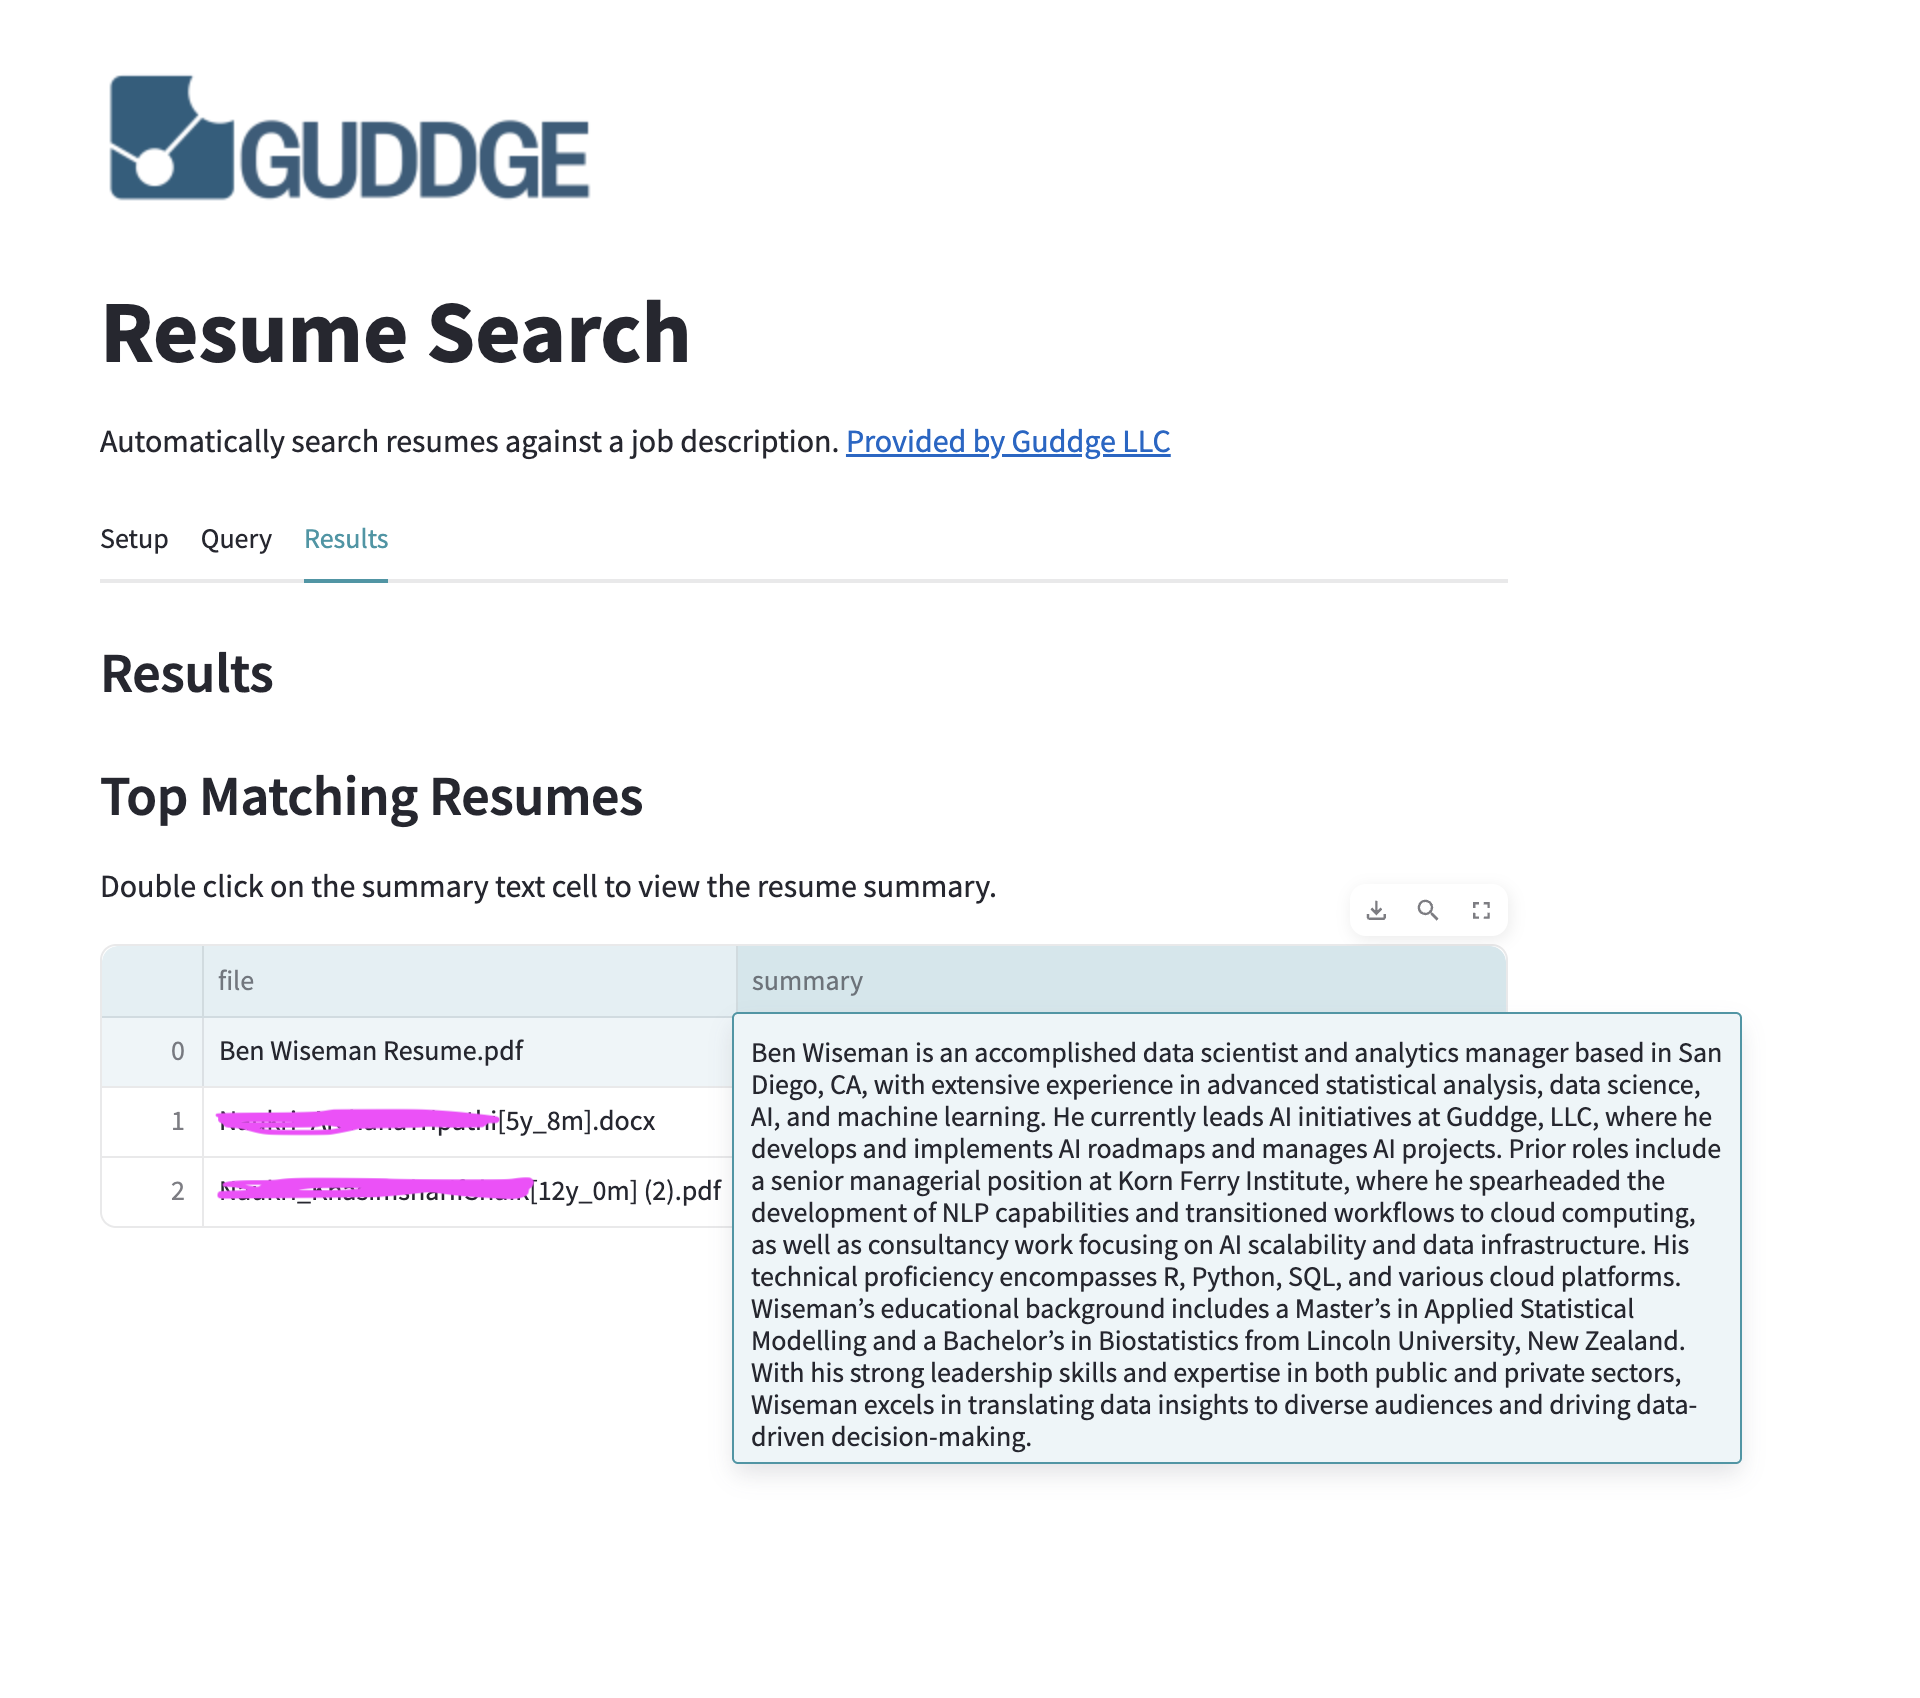
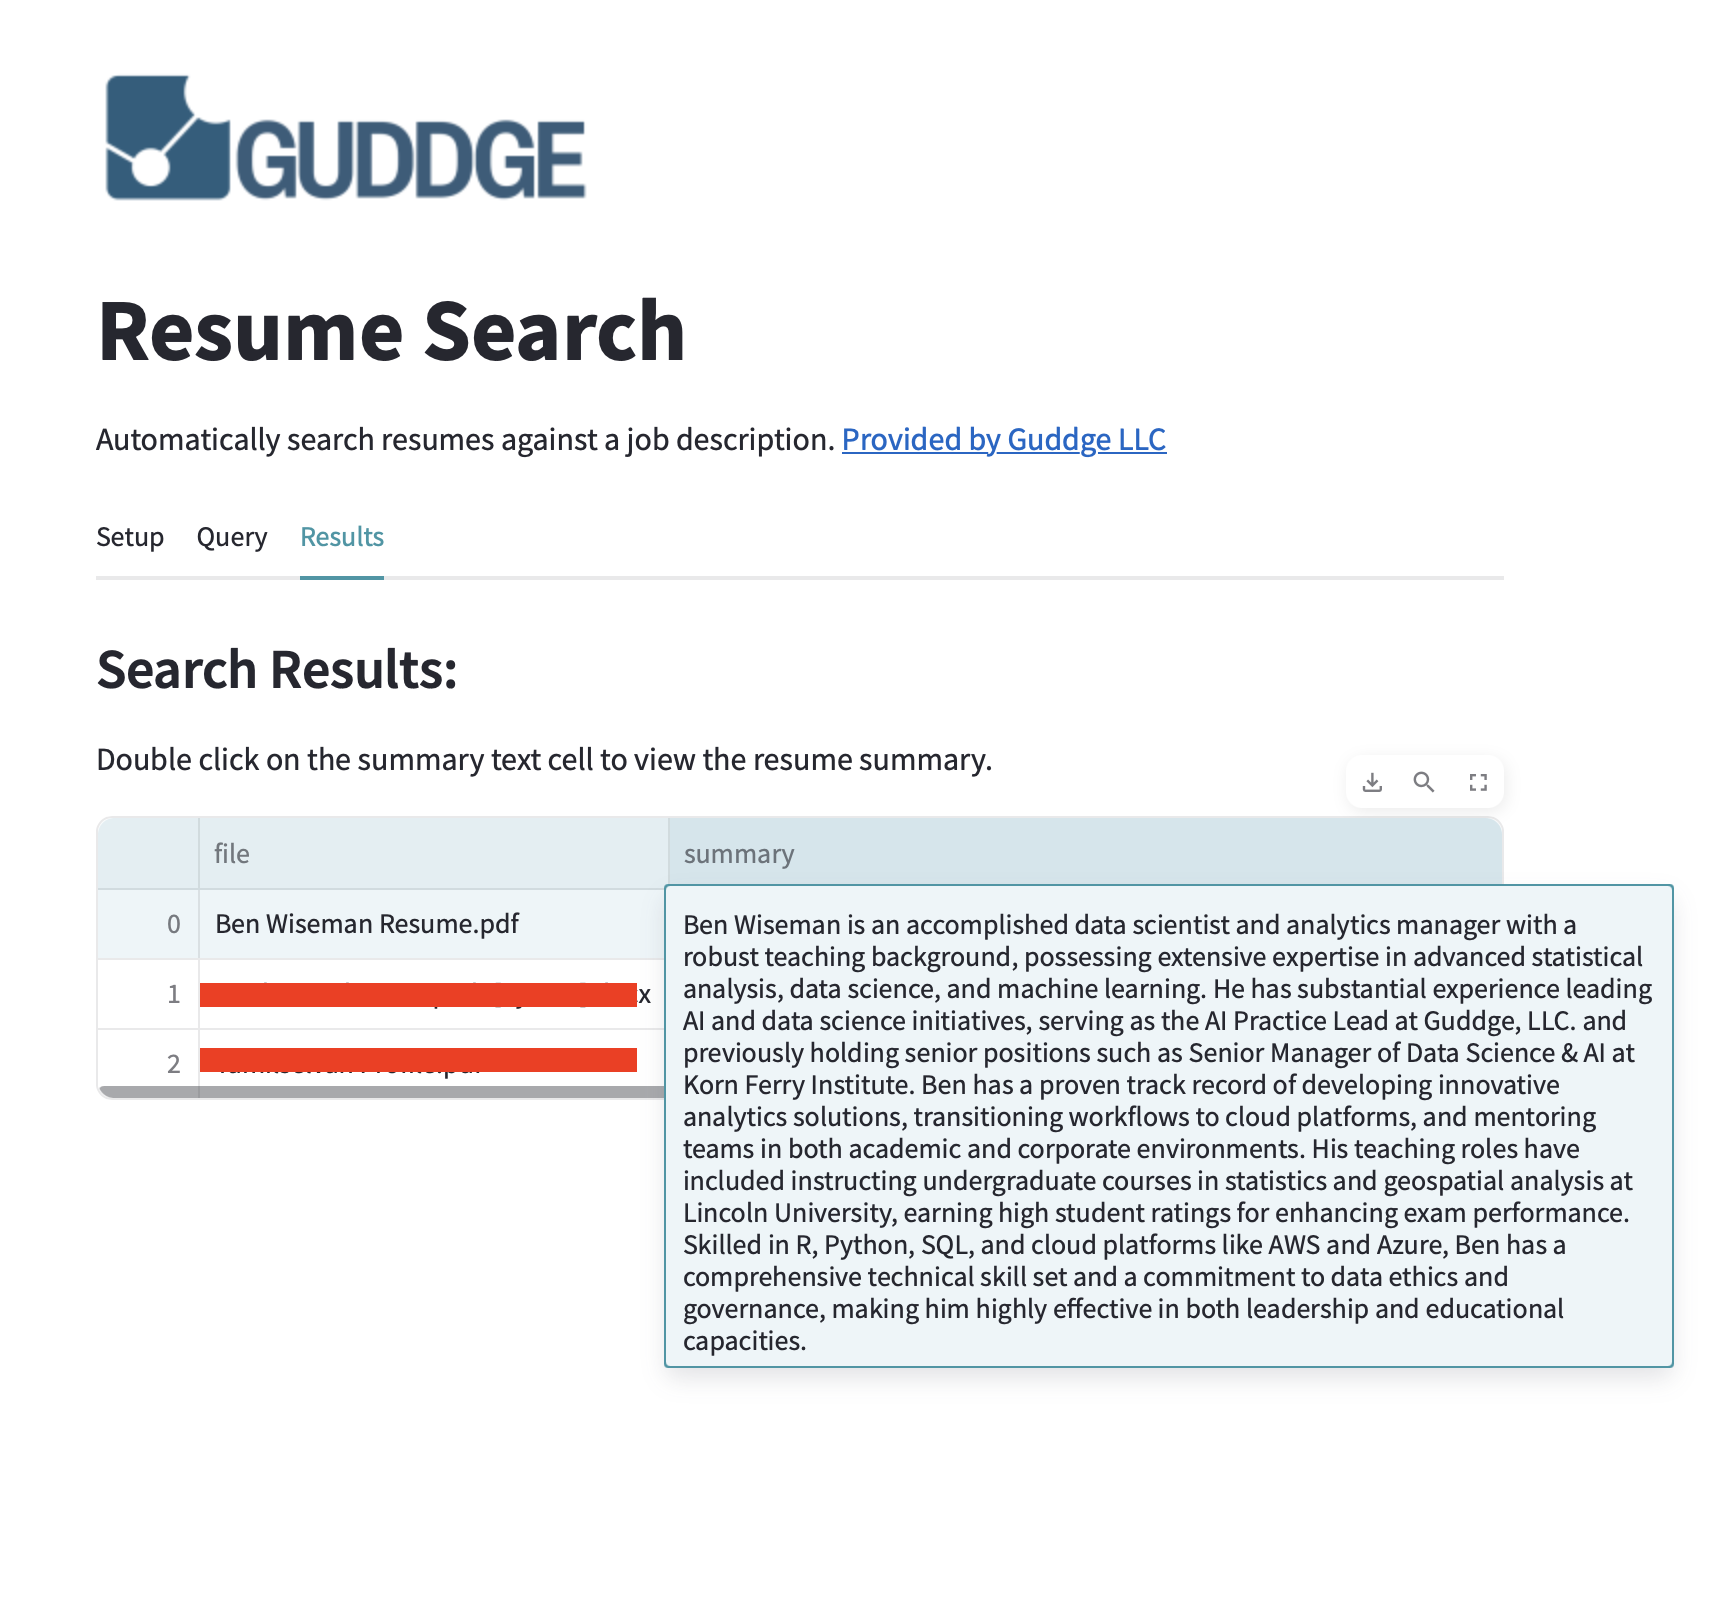
changed screenshot

diff --git a/app.py b/app.py
@@ -207,13 +207,12 @@ def main():
 
     # ----- Results Tab -----
     with results_tab:
-        st.markdown("### Results")
+        st.markdown("### Search Results:")
         if "search_results" not in st.session_state or not st.session_state.search_results:
-            st.info("No search results yet. Please run a query in the Query tab.")
+            st.warning("No search results yet. Please run a query in the Query tab.")
         else:
             results = st.session_state.search_results
             df = pd.DataFrame(results)
-            st.subheader("Top Matching Resumes")
             st.markdown("Double click on the summary text cell to view the resume summary.")
             st.dataframe(df[["file", "summary"]])
             
